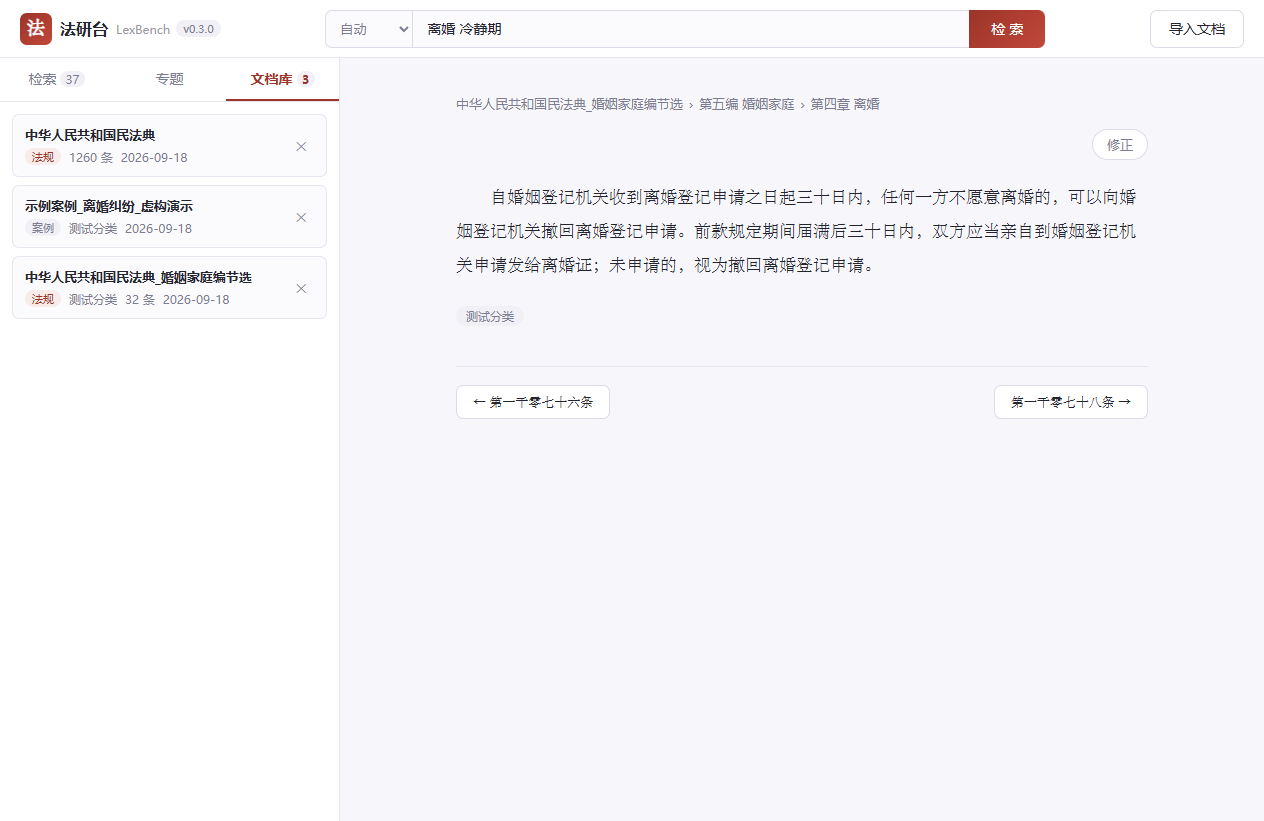
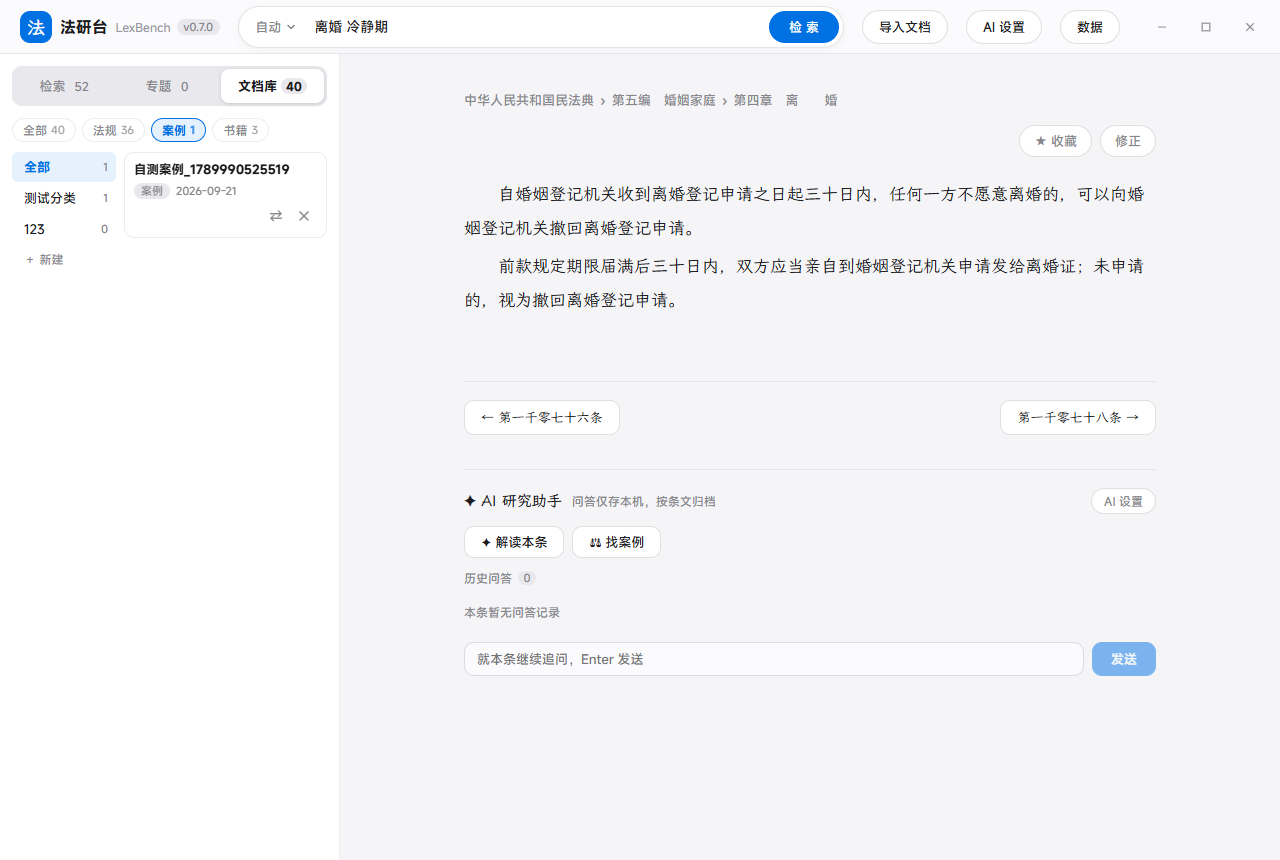
release: v0.8.0——界面全面改版（苹果风）+ 分类删除修复
- 配色改 Apple 体系（苹果蓝/云雾灰/墨黑，危险操作 Apple 红）；界面 MiSans、正文霞鹜文楷
- 无边框窗口（自绘 ─□✕、顶栏拖动、双击最大化）；动效与 prefers-reduced-motion 适配
- 检索模式自定义弹出菜单；键盘聚焦环
- 修复分类文件夹删除无响应（缺处理函数）
- README 界面截图按新界面重拍（4 张）

diff --git a/CHANGELOG.md b/CHANGELOG.md
@@ -3,6 +3,24 @@
 本项目的所有显著变更记录于此。格式基于 [Keep a Changelog](https://keepachangelog.com/zh-CN/1.1.0/)，
 版本号遵循 [语义化版本](https://semver.org/lang/zh-CN/)。
 
+## [0.8.0] - 2026-09-21
+
+**界面全面改版：苹果风**——整体视觉与交互按 Apple 体系重构，窗口改为无边框自绘标题栏，配色、字体、动效、无障碍一并更新；功能不变。
+
+### Changed — 视觉与交互改版
+
+- **配色**：深红系视觉令牌整体替换为 Apple 体系（苹果蓝 `#0071e3` / 云雾灰 / 墨黑），全部组件经统一令牌生效；删除等危险操作改用 Apple 红 `#ff3b30`
+- **字体**：界面采用 **MiSans** 可变字体；法条标题与阅读正文改用 **霞鹜文楷**（更适合长文阅读）
+- **无边框窗口**：去掉系统标题栏，顶栏自绘 ─ □ ✕ 窗口控制（经 IPC 白名单）；顶栏空白处可拖动窗口，双击最大化/还原
+- **动效**：按钮按压缩放、弹窗缩放浮现、分段控件滑块、消息条滑入滑出、列表渐次进入、检索按钮转圈加载——全部适配系统「减少动态效果」设置
+- **检索模式下拉**：原生 select 改为自定义弹出菜单（缩放浮现、点击外部收起）
+- **无障碍**：补齐键盘聚焦环（`:focus-visible`）
+
+### Fixed
+
+- **分类文件夹删除无响应**：点击文件夹行的 ✕ 会报错（缺少处理函数），现已修复，删除仍走确认弹窗（文档移入「未分类」）
+- README 界面预览截图更新为新界面
+
 ## [0.7.0] - 2026-09-21
 
 **AI 研究助手：把法条读懂、把案例找齐**——阅读法条时右侧即可调用 AI：解读本条、找案例、自由追问；回答流式输出、随时可停，引用可点击跳回条文核对；问答只存本机、按条文归档。支持配置**多个模型档案**（OpenAI 兼容接口）随时切换。
